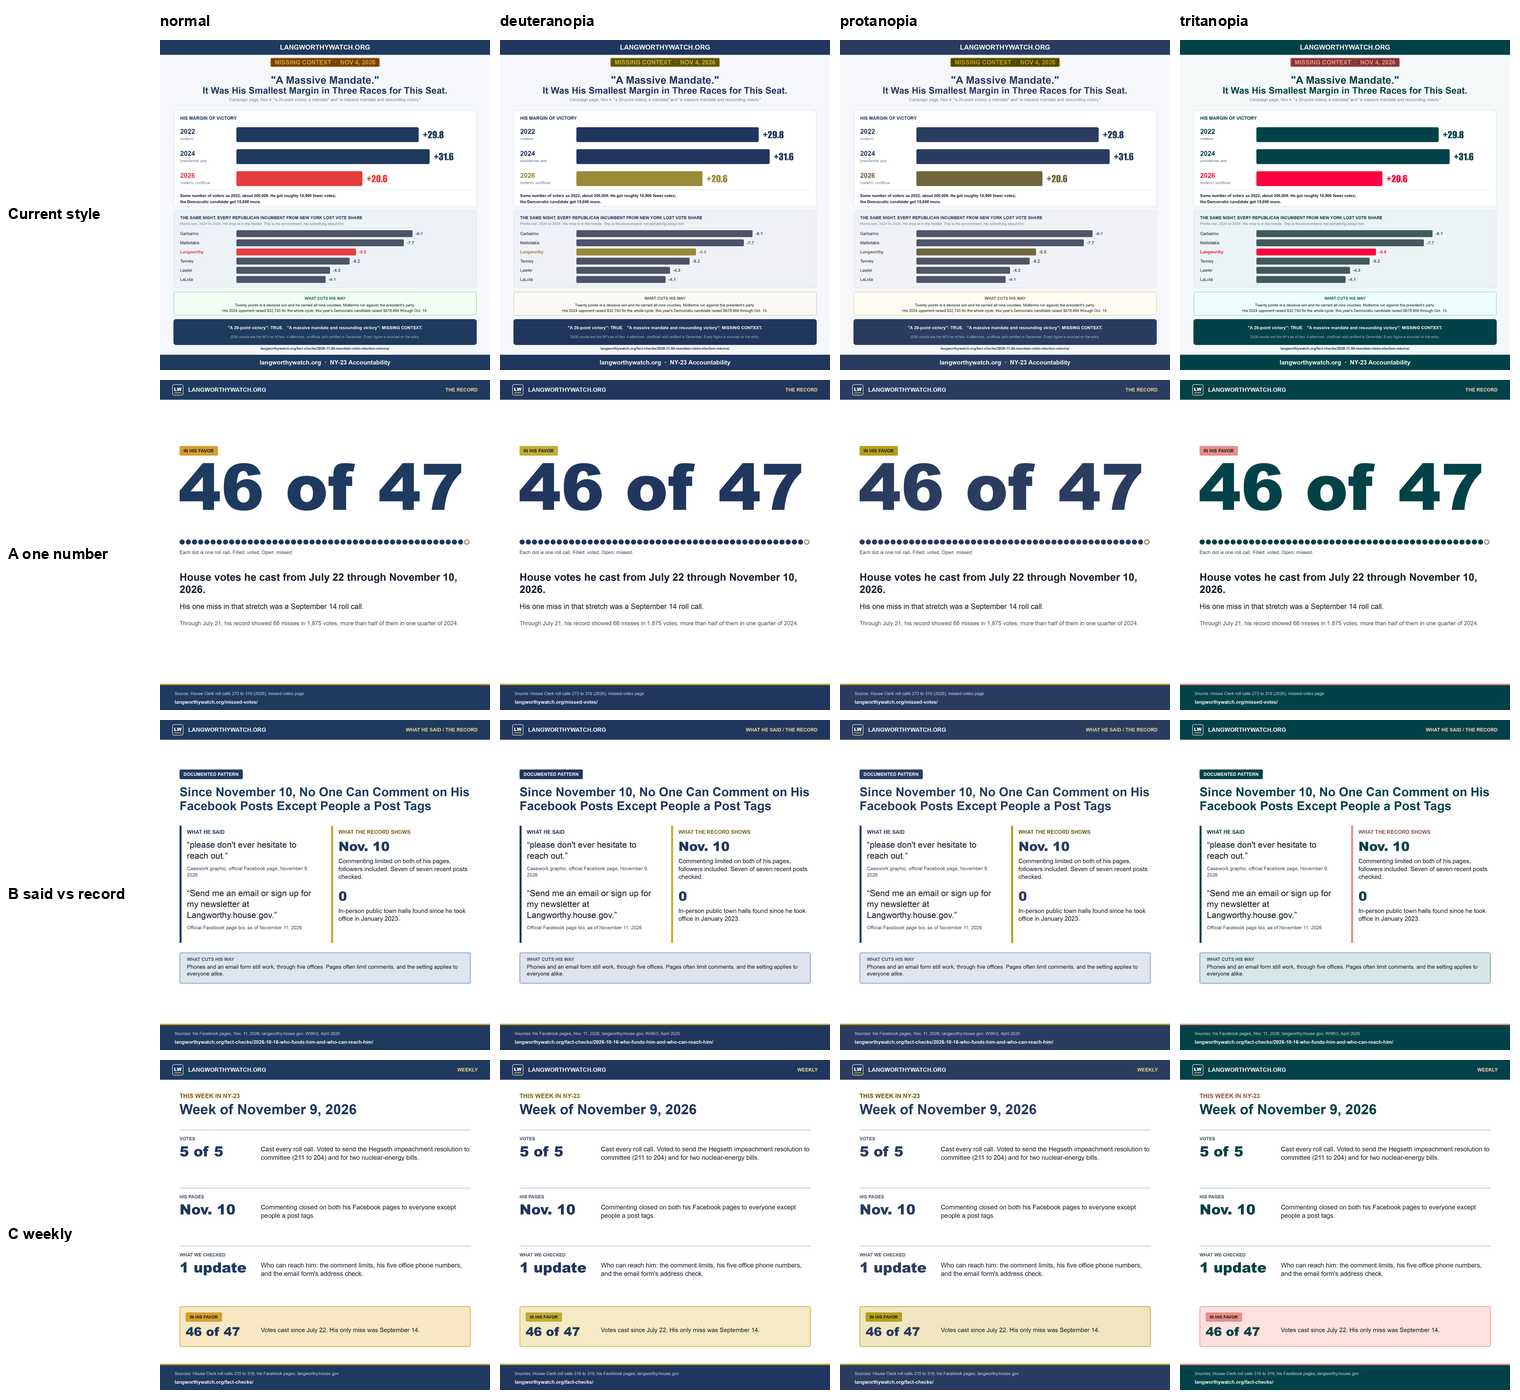
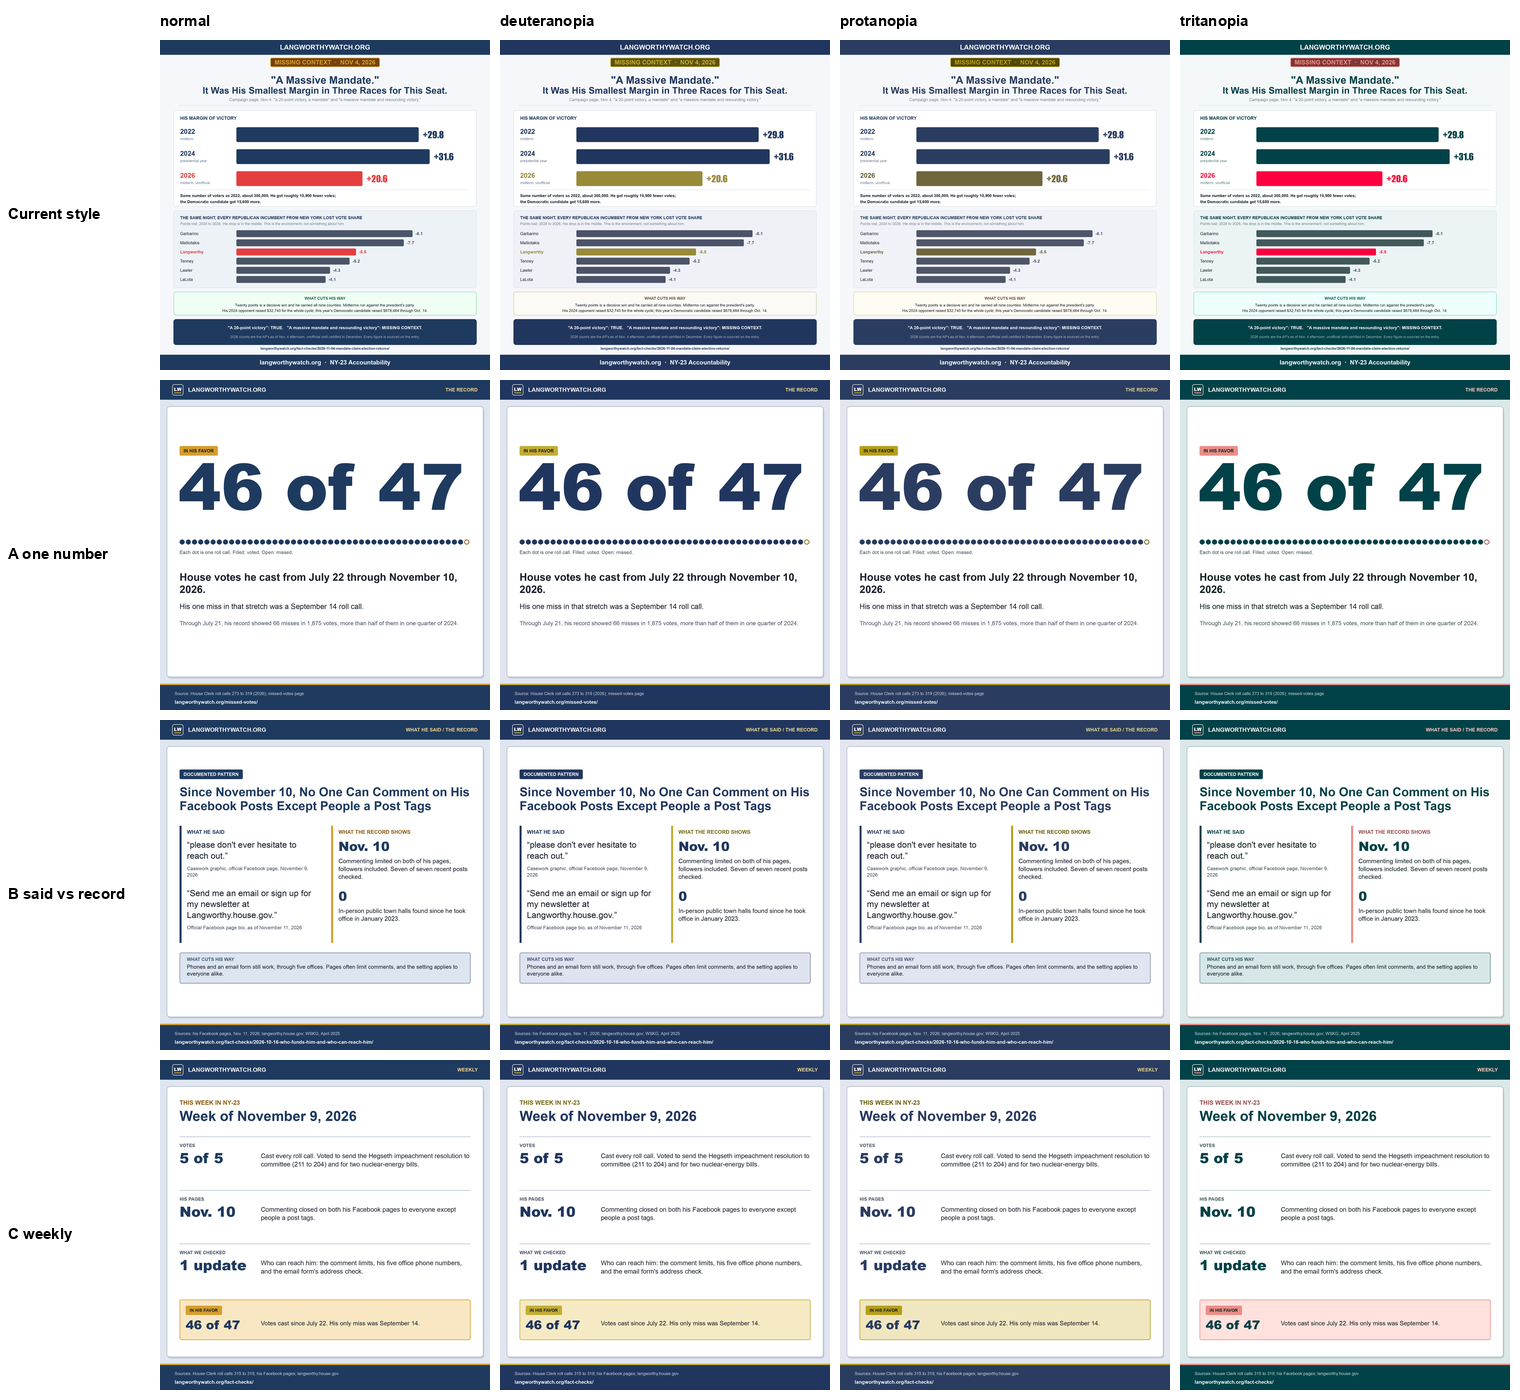
feat: card theme v2.2, framed white content panel on a tinted backdrop

Changed region(s): [[0.0928, 0.7679, 1.0, 0.9829], [0.0928, 0.5221, 1.0, 0.7371], [0.0928, 0.2764, 1.0, 0.4914]]

diff --git a/social-media/lib/card_v2.py b/social-media/lib/card_v2.py
@@ -24,12 +24,16 @@ NAVY = "#1E3A5F"; INK = "#1A202C"; PAPER = "#FFFFFF"; WHITE = "#FFFFFF"
 AMBER = "#D69E2E"; AMBER_TXT = "#8A5A0B"; AMBER_TINT = "#F8E7C2"; GOLD_LIGHT = "#F6D58E"
 SLATE = "#3F5873"; SLATE_TINT = "#DCE5F0"; SLATE_LINE = "#7C8DA6"
 GRAY = "#4A5568"; LINE = "#C3CCD8"; RED = "#C53030"; ON_NAVY = "#C9D3E0"
+# v2.2 (Nov 11): content sits in a white framed panel on a tinted background (user request).
+BACKDROP = "#DFE6EF"; FRAME_LINE = "#9AA9BD"; SHADOW = "#C5CFDC"
+TOP_H = 64; FOOT_H = 86; FRAME_INSET = 22
+CONTENT_TOP = TOP_H + FRAME_INSET; CONTENT_BOTTOM = 1080 - FOOT_H - FRAME_INSET
 VERDICT_FILL = {"FALSE": RED}  # every other verdict uses navy; red is reserved for FALSE
 
 
 class Card(_Card):
     def __init__(self, w=1080, h=1080, scale=2):
-        super().__init__(w=w, h=h, bg=PAPER, scale=scale)
+        super().__init__(w=w, h=h, bg=BACKDROP, scale=scale)
 
     def font(self, size, bold=False, impact=False):
         name = "Arial Black.ttf" if impact else ("Arial Bold.ttf" if bold else "Arial.ttf")
@@ -46,7 +50,16 @@ class Card(_Card):
         self.rect(x + s * 0.2, y + s * 0.74, x + s * 0.8, y + s * 0.80, fill=AMBER)
         return self
 
-    def top_bar(self, kicker, h=64):
+    def frame(self):
+        """White content panel with a soft shadow and a defined edge, between the top bar and the footer."""
+        x0, x1 = FRAME_INSET, self.w - FRAME_INSET
+        y0, y1 = CONTENT_TOP, CONTENT_BOTTOM
+        self.rect(x0 + 3, y0 + 5, x1 + 3, y1 + 5, fill=SHADOW, radius=10)
+        self.rect(x0, y0, x1, y1, fill=WHITE, outline=FRAME_LINE, width=1.5, radius=10)
+        return self
+
+    def top_bar(self, kicker, h=TOP_H):
+        self.frame()
         self.rect(0, 0, self.w, h, fill=NAVY)
         self.mark(40, (h - 36) / 2, 36)
         self.text(92, h / 2, "LANGWORTHYWATCH.ORG", size=19, bold=True, fill=WHITE, anchor="lm")
@@ -107,7 +120,7 @@ def one_number(number, unit_line, sentence, context, tag_label, sources, url, ki
     """Template A: one big number, one sentence, a context line, a source.
     dots=(filled, total) draws a strip of total dots with `filled` in navy, the rest open."""
     c = Card()
-    top = c.top_bar(kicker); bottom = c.h - 86
+    top = c.top_bar(kicker) + FRAME_INSET; bottom = CONTENT_BOTTOM
     body = 40 + 250 + 44 + _measure(c, unit_line, 950, 34, True, 1.2) + 18 + _measure(c, sentence, 950, 24) \
         + 26 + _measure(c, context, 950, 19) + (110 if dots else 0)
     y = top + max(48, (bottom - top - body) / 2)
@@ -142,7 +155,7 @@ def said_vs_record(title, said_items, record_points, fair_line, verdict, sources
     """Template B: what he said (navy rule) beside what the record shows (amber rule).
     said_items = [(quote, source)], record_points = [(big, small)]."""
     c = Card()
-    top = c.top_bar(kicker); bottom = c.h - 86
+    top = c.top_bar(kicker) + FRAME_INSET; bottom = CONTENT_BOTTOM
     col_w, gap = 456, 40
     lx, rx = 64, 64 + col_w + gap
     left_h = 52 + sum(_measure(c, f"\u201c{q}\u201d", col_w - 30, 28, leading=1.28) + 10 + _measure(c, s, col_w - 30, 16) + 34 for q, s in said_items)
@@ -179,7 +192,7 @@ def weekly_roundup(week_label, rows, held_up, sources, url, path):
     """Template C: the weekly roundup. rows = [(section, big, line)]; held_up = (tag, big, line) or None.
     Rows are spread to fill the card."""
     c = Card()
-    top = c.top_bar("WEEKLY"); bottom = c.h - 86
+    top = c.top_bar("WEEKLY") + FRAME_INSET; bottom = CONTENT_BOTTOM
     y = top + 46
     c.text(64, y, "THIS WEEK IN NY-23", size=20, bold=True, fill=AMBER_TXT, anchor="lt")
     y += 34

diff --git a/research/style-refresh-2026-11/README.md b/research/style-refresh-2026-11/README.md
@@ -31,3 +31,8 @@ The first set's surfaces were too close to tell apart: paper #F7F8FA against whi
 - Amber tint #F8E7C2 with an amber border.
 - Footer text #C9D3E0 on navy (7.6:1).
 All text pairings still pass AA. The colorblind sheet was regenerated.
+
+## v2.2 (Nov 11, user request: "a box to frame the information from the background")
+- Content now sits in a white rounded panel with a soft shadow on a #DFE6EF backdrop, inset 22 px between the navy top bar and the navy footer band.
+- Panel against the backdrop: 1.26:1 for the fill, plus a #9AA9BD border at 2.4:1 against white. The edge reads clearly; text contrast is unchanged.
+- Templates lay out inside CONTENT_TOP and CONTENT_BOTTOM, so nothing touches the frame.
